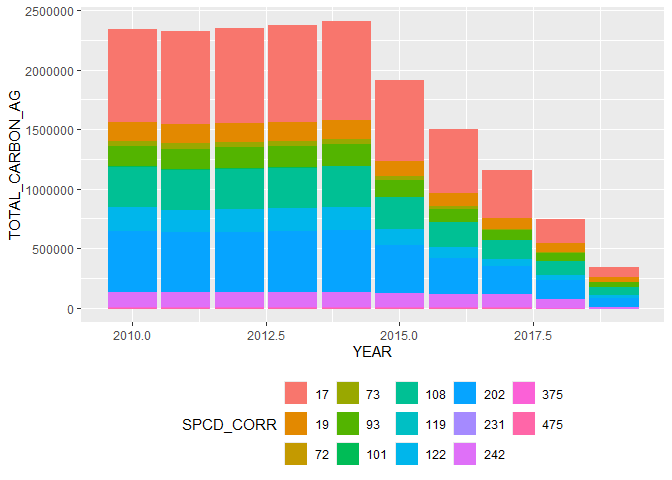
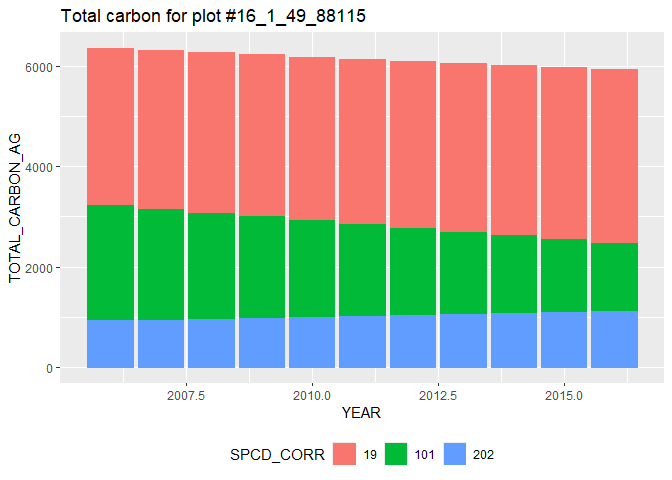
Adjust for plots in sample.

diff --git a/use_cases/nfs/national_forests_nezperce_annualized.md b/use_cases/nfs/national_forests_nezperce_annualized.md
@@ -109,7 +109,8 @@ ggplot(nezperce_nfs |> filter(SPCD_CORR == 101) |> mutate(STATUSCD = as.factor(S
 ![](national_forests_nezperce_annualized_files/figure-commonmark/unnamed-chunk-6-1.png)
 
 ``` r
-ggplot(nezperce_nfs |> filter(SPCD_CORR == 101) |> mutate(STATUSCD = as.factor(STATUSCD)), aes(YEAR, CARBON_AG_est, group = TREE_COMPOSITE_ID)) +
+ggplot(nezperce_nfs |> filter(SPCD_CORR == 101) |>
+         mutate(STATUSCD = as.factor(STATUSCD)), aes(YEAR, CARBON_AG_est, group = TREE_COMPOSITE_ID)) +
   geom_point(aes(color = STATUSCD)) +
   geom_line() +
   theme(legend.position = "bottom") +
@@ -121,23 +122,74 @@ ggplot(nezperce_nfs |> filter(SPCD_CORR == 101) |> mutate(STATUSCD = as.factor(S
 # Total carbon estimates
 
 ``` r
-nezperce_carbon <- nezperce_nfs |>
-  group_by(YEAR, SPCD_CORR) |>
+nezperce_plot_species_carbon <- nezperce_nfs |>
+  group_by(YEAR, PLOT_COMPOSITE_ID, SPCD_CORR) |>
   summarize(TOTAL_CARBON_AG = sum(CARBON_AG_est)) |>
   ungroup() |>
   mutate(SPCD_CORR = as.factor(SPCD_CORR))
+```
+
+    `summarise()` has grouped output by 'YEAR', 'PLOT_COMPOSITE_ID'. You can
+    override using the `.groups` argument.
+
+``` r
+ggplot(nezperce_plot_species_carbon |> filter(PLOT_COMPOSITE_ID == "16_1_49_88115"), aes(YEAR, TOTAL_CARBON_AG, color = SPCD_CORR, fill = SPCD_CORR)) +
+  geom_col(position = "stack") + 
+  theme(legend.position = "bottom")   +
+  ggtitle("Total carbon for plot #16_1_49_88115")
+```
+
+![](national_forests_nezperce_annualized_files/figure-commonmark/unnamed-chunk-8-1.png)
+
+``` r
+nezperce_carbon <- nezperce_nfs |>
+  group_by(YEAR) |> 
+  mutate(PLOTS_IN_SAMPLE = length(unique(PLOT_COMPOSITE_ID))) |>
+  ungroup() |>
+  group_by(YEAR, SPCD_CORR, PLOTS_IN_SAMPLE) |>
+  summarize(TOTAL_CARBON_AG = sum(CARBON_AG_est)) |>
+  ungroup() |>
+  mutate(SPCD_CORR = as.factor(SPCD_CORR),
+         TOTAL_CARBON_AG_ADJ = TOTAL_CARBON_AG / PLOTS_IN_SAMPLE)
+```
+
+    `summarise()` has grouped output by 'YEAR', 'SPCD_CORR'. You can override using
+    the `.groups` argument.
+
+``` r
+ggplot(nezperce_carbon, aes(YEAR, TOTAL_CARBON_AG, color = SPCD_CORR, fill = SPCD_CORR)) +
+  geom_col(position = "stack") +
+  theme(legend.position = "bottom") +
+  ggtitle("TOTAL_CARBON_AG by species - raw")
+```
+
+![](national_forests_nezperce_annualized_files/figure-commonmark/unnamed-chunk-8-2.png)
+
+``` r
+ggplot(nezperce_carbon, aes(YEAR, TOTAL_CARBON_AG_ADJ, color = SPCD_CORR, fill = SPCD_CORR)) +
+  geom_col(position = "stack") +
+  theme(legend.position = "bottom") +
+  ggtitle("TOTAL_CARBON_AG by species - adjusted")
+```
+
+![](national_forests_nezperce_annualized_files/figure-commonmark/unnamed-chunk-8-3.png)
+
+``` r
+nezperce_plot_carbon <- nezperce_nfs |>
+  group_by(YEAR, PLOT_COMPOSITE_ID) |>
+  summarize(TOTAL_CARBON_AG = sum(CARBON_AG_est)) |>
+  ungroup() 
 ```
 
     `summarise()` has grouped output by 'YEAR'. You can override using the
     `.groups` argument.
 
 ``` r
-ggplot(nezperce_carbon |> filter(YEAR >= 2010), aes(YEAR, TOTAL_CARBON_AG, color = SPCD_CORR, fill = SPCD_CORR)) +
-  geom_col(position = "stack") +
-  theme(legend.position = "bottom")
+ggplot(nezperce_plot_carbon, aes(YEAR, TOTAL_CARBON_AG, group = PLOT_COMPOSITE_ID)) +
+  geom_line()
 ```
 
-![](national_forests_nezperce_annualized_files/figure-commonmark/unnamed-chunk-8-1.png)
+![](national_forests_nezperce_annualized_files/figure-commonmark/unnamed-chunk-9-1.png)
 
 ## Clean up
 
